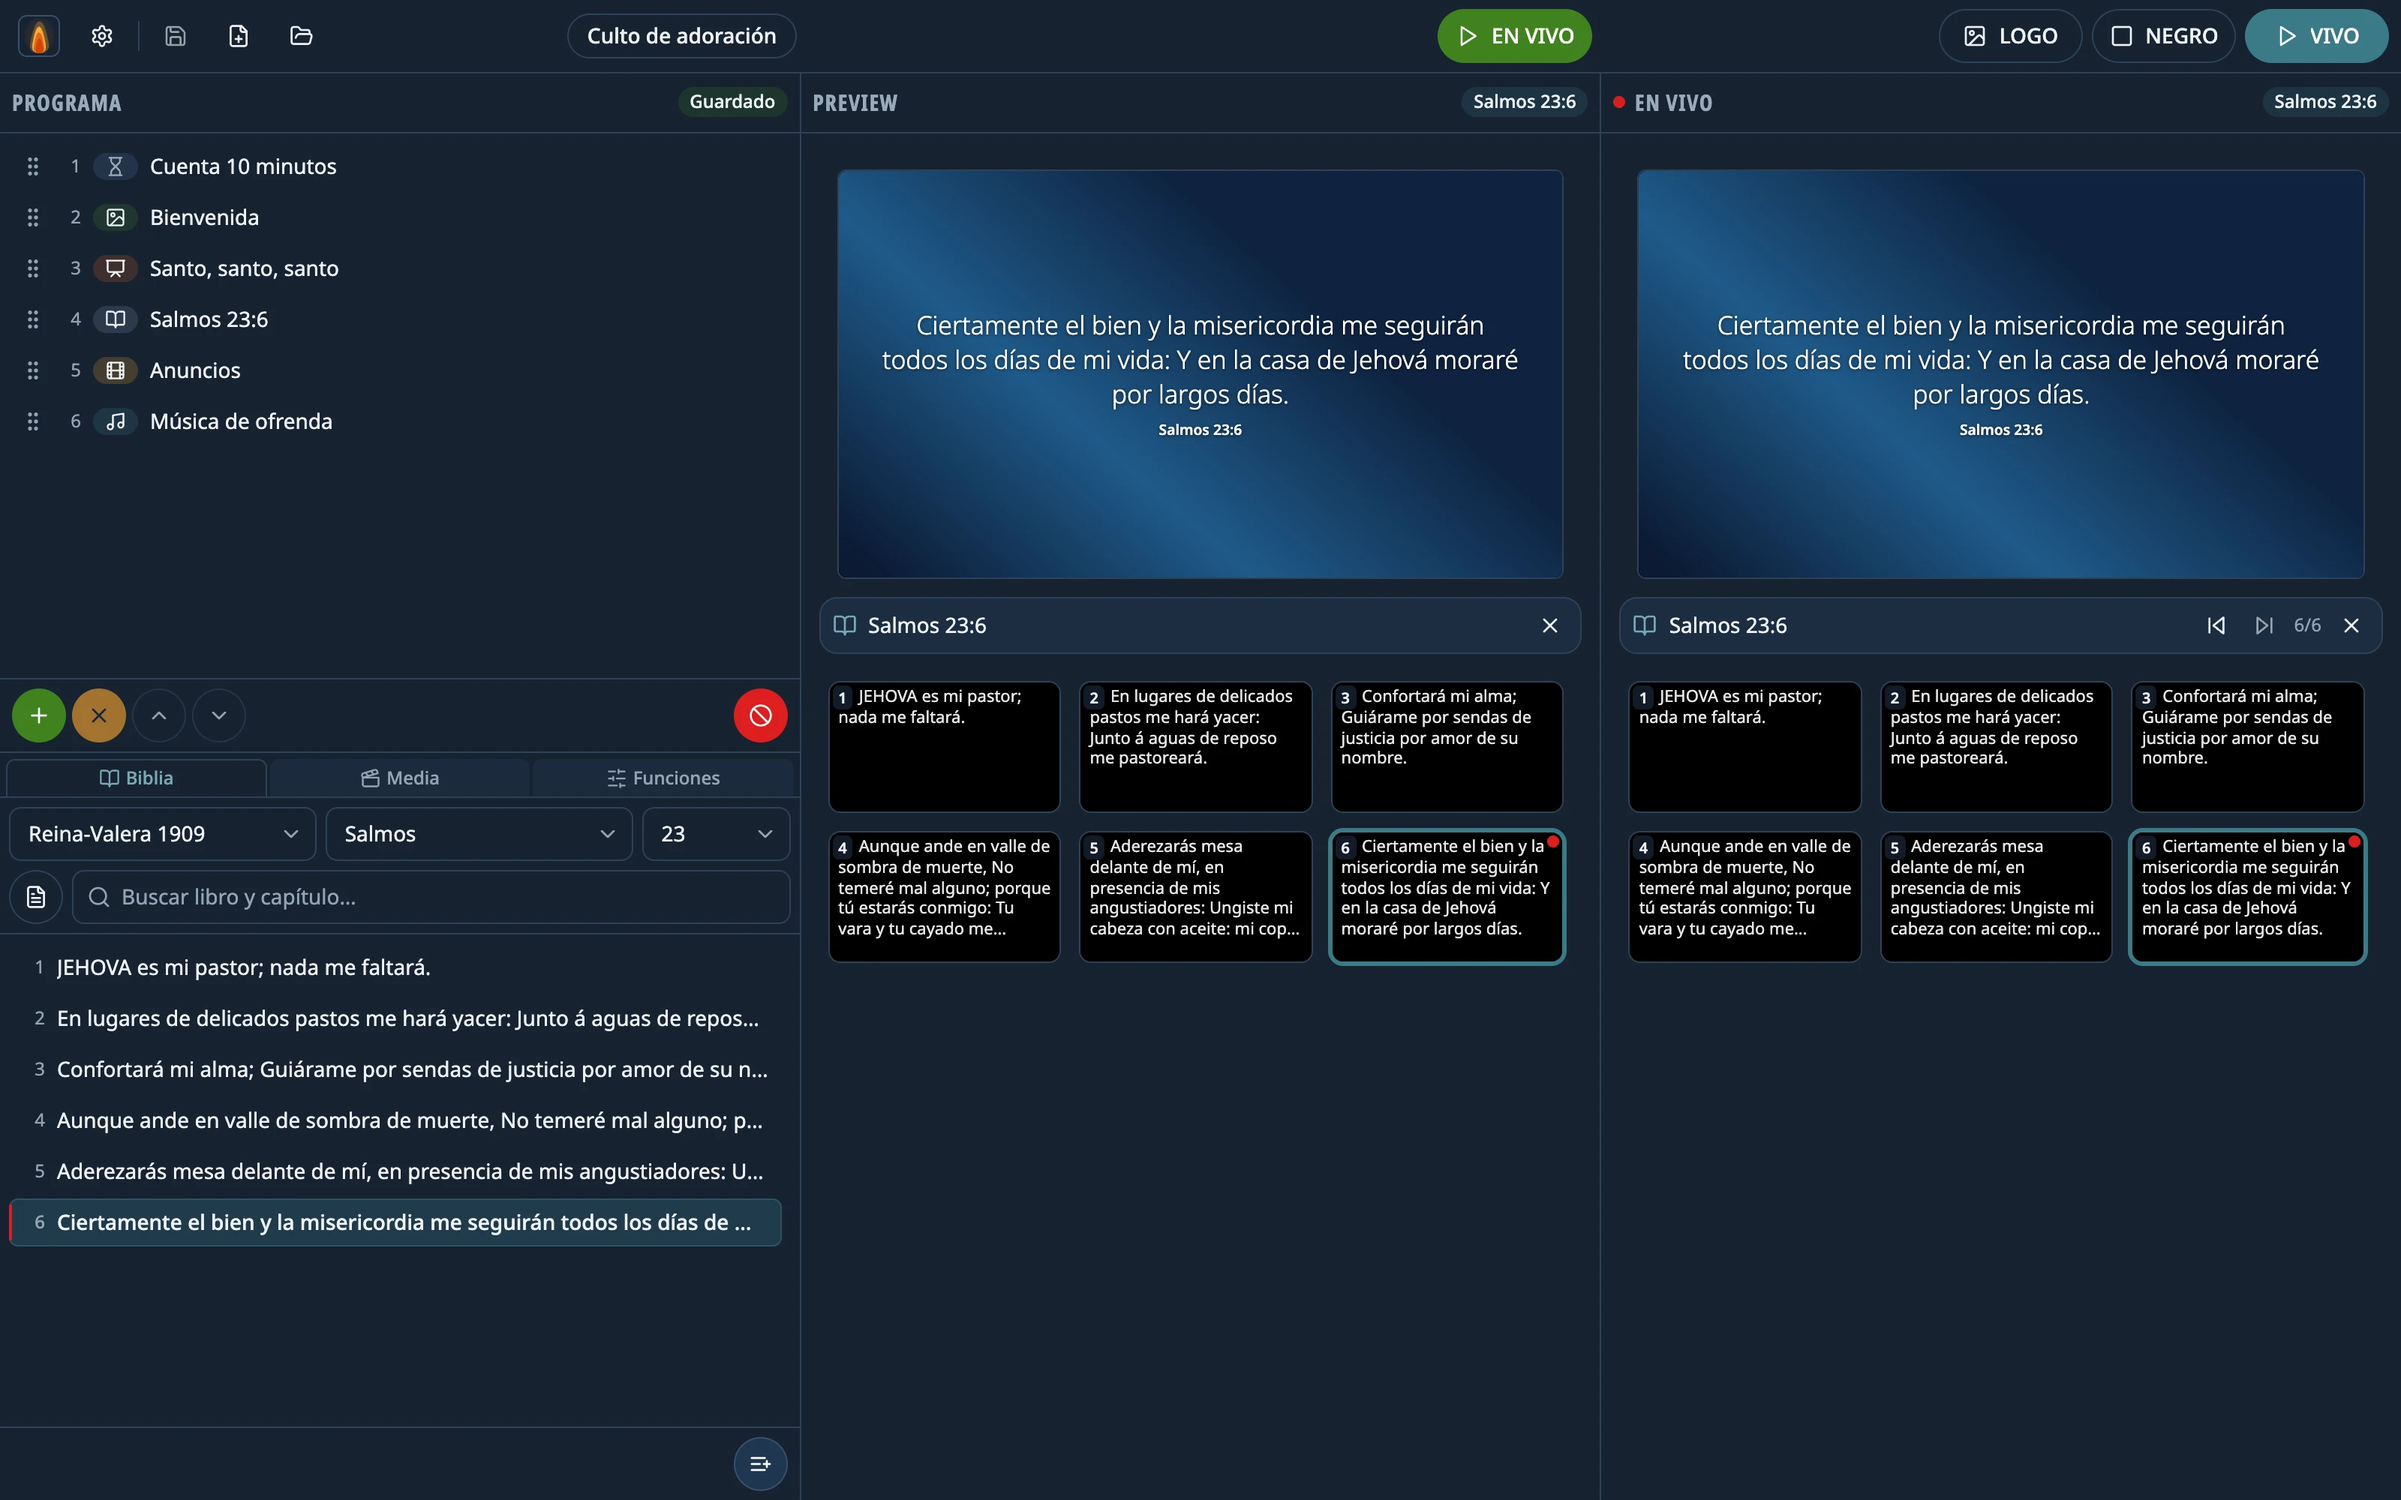
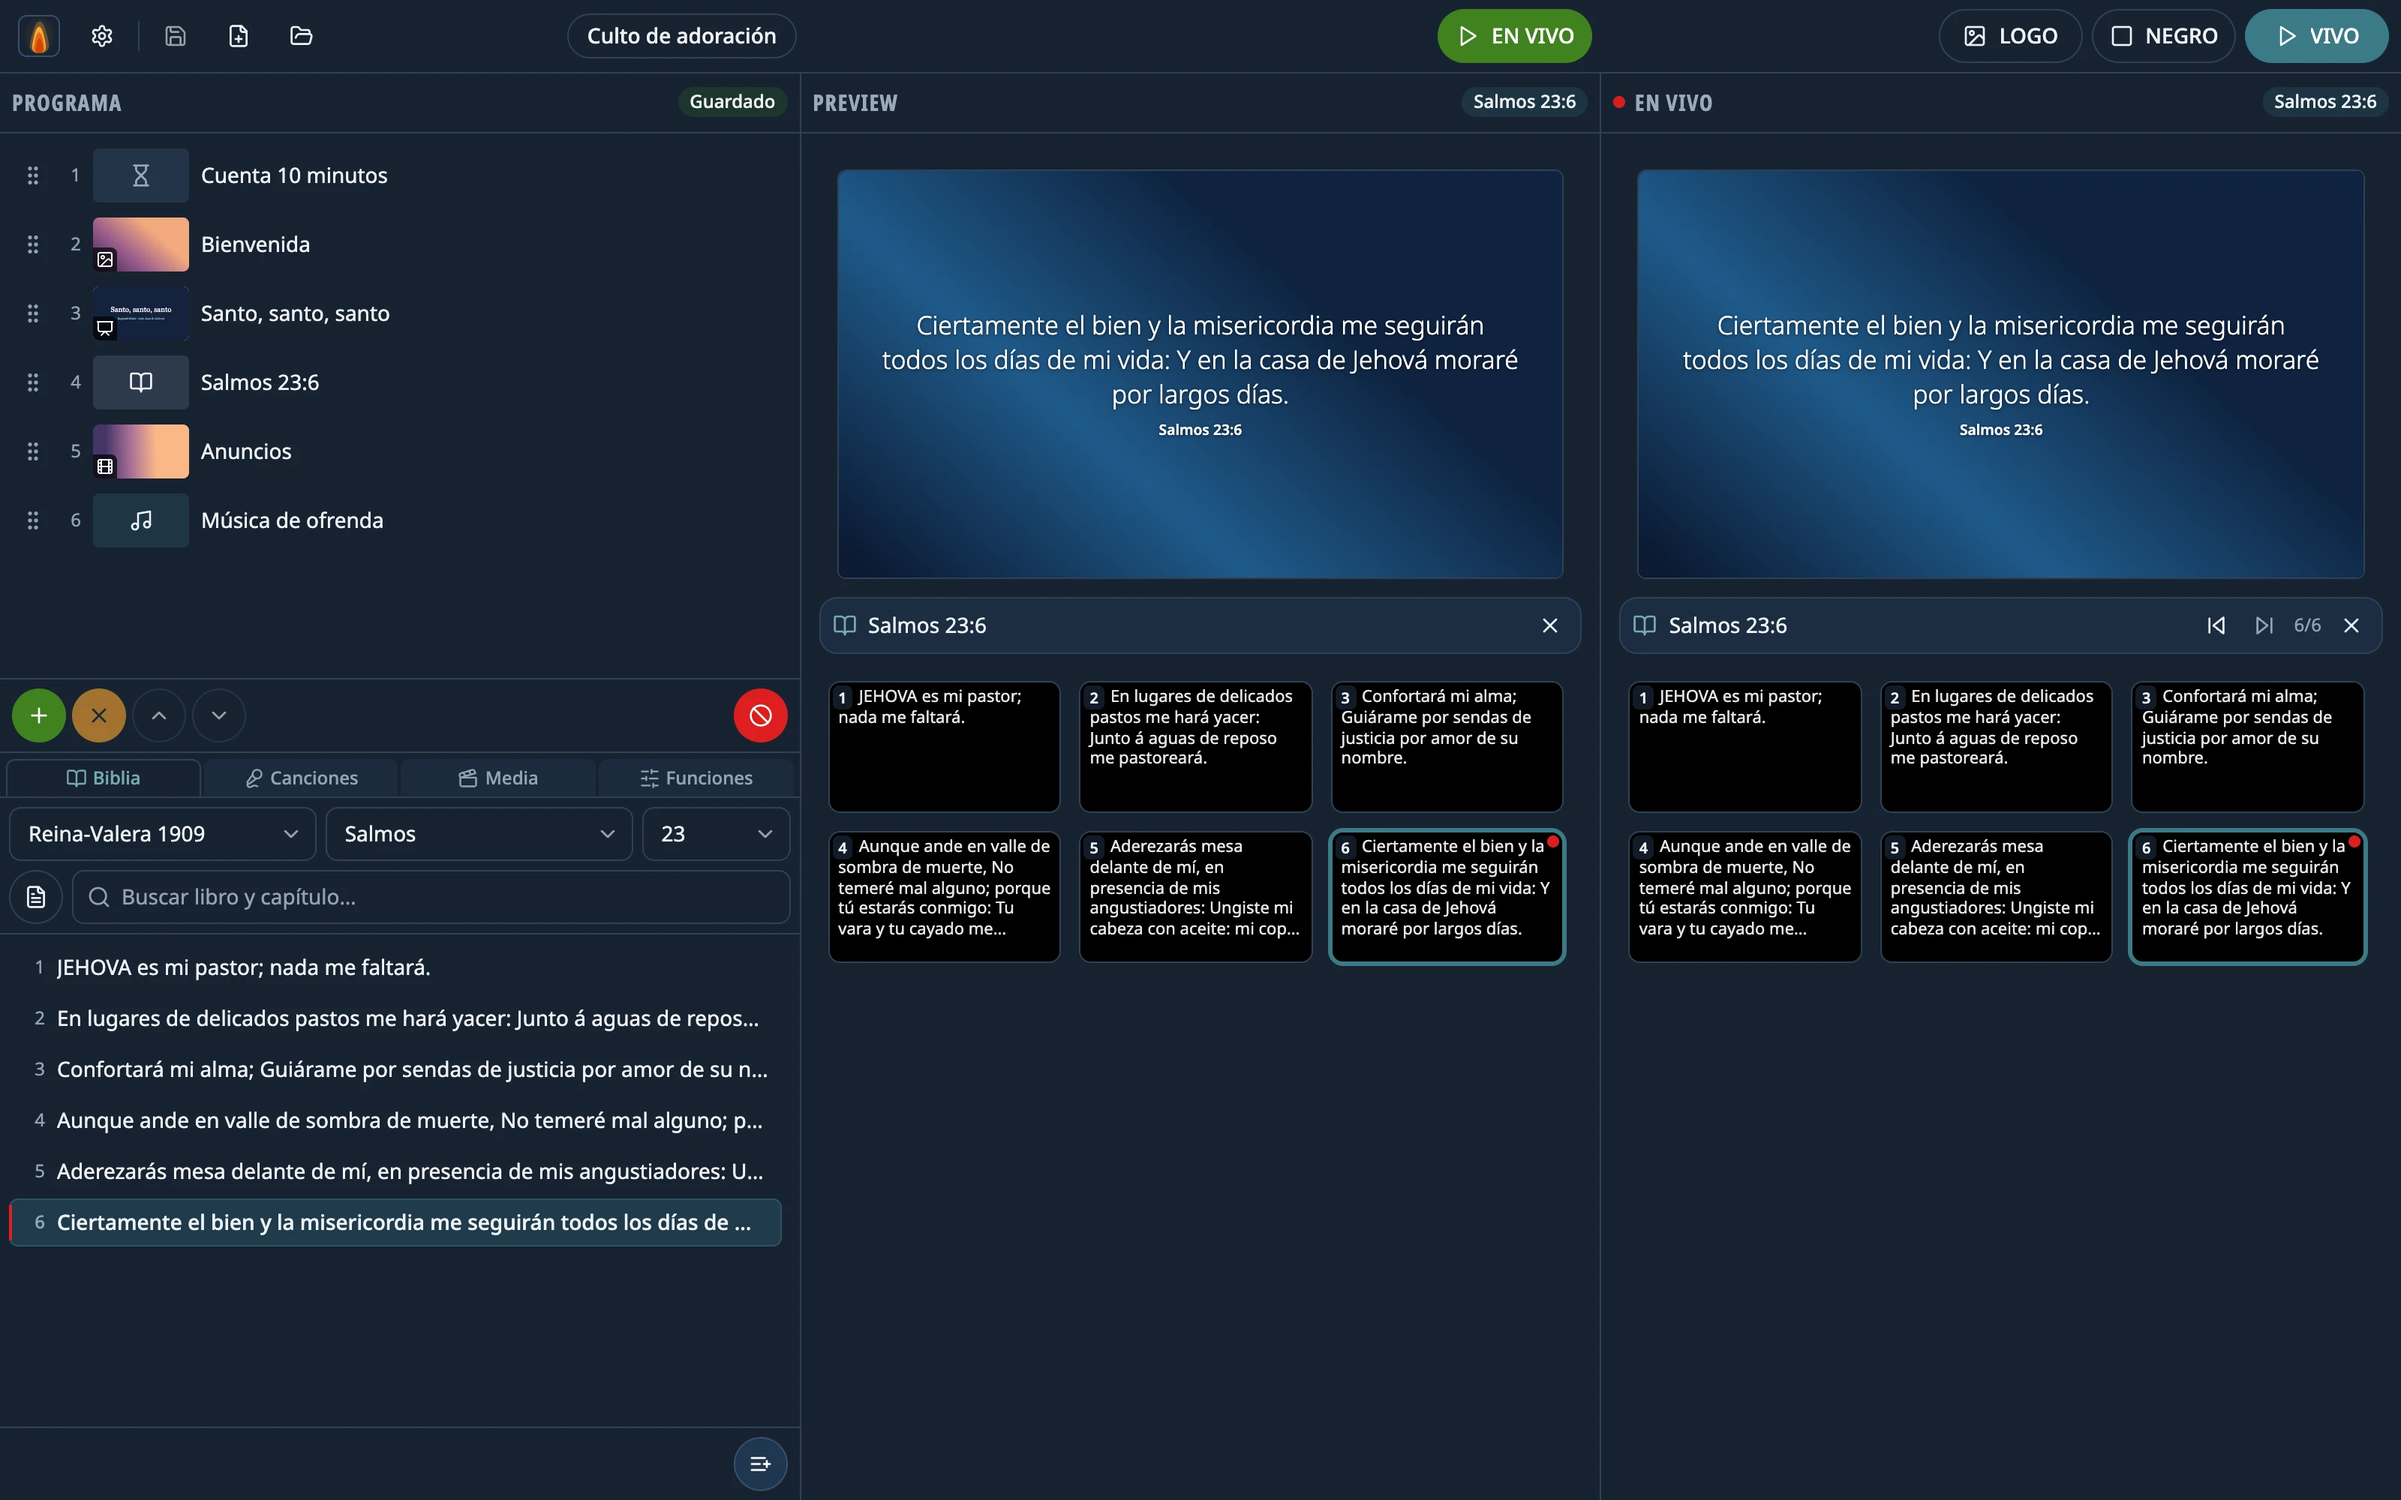
chore(screenshots): a songs scene, and the Songs tab in every frame
Luther's hymn (trans. Juan B. Cabrera, public domain) as a song in a theme
of its own over a generated background: its slides in PREVIEW with their
sections, the second one live with the section buttons. Every other frame is
retaken, since the resource tabs now include Songs.

diff --git a/tests/e2e/screenshots.capture.ts b/tests/e2e/screenshots.capture.ts
@@ -4,6 +4,8 @@ import os from "node:os";
 import path from "node:path";
 import type { CDPSession, Page } from "@playwright/test";
 import { DEFAULT_BIBLE_STYLE } from "../../src/shared/types/bible-style";
+import { DEFAULT_SONG_THEME } from "../../src/shared/types/song";
+import { parseLyrics } from "../../src/shared/song-text";
 import type { MediaAsset } from "../../src/shared/types/media";
 import { engineCanvas, expect, relaunch, test, type WorshipApp } from "./support/app";
 import { ROOT, ffmpegBinary } from "./support/paths";
@@ -24,6 +26,34 @@ const MEDIA = path.join(os.tmpdir(), "lumina-screenshots-media");
 const OUT = path.join(ROOT, "docs/screenshots");
 const THEMES = ["dark", "light"] as const;
 const VERSE = "Ciertamente el bien y la misericordia me seguirán";
+
+/** Luther's hymn as a song (trans. Juan B. Cabrera, public domain), its two
+ *  stanzas in two slides each. */
+const CASTILLO = [
+  "[Estrofa 1]",
+  "Castillo fuerte es nuestro Dios,",
+  "defensa y buen escudo.",
+  "Con su poder nos librará",
+  "en este trance agudo.",
+  "",
+  "Con furia y con afán",
+  "acósanos Satán:",
+  "por armas deja ver",
+  "astucia y gran poder;",
+  "cual él no hay en la tierra.",
+  "",
+  "[Estrofa 2]",
+  "Nuestro valor es nada aquí,",
+  "con él todo es perdido;",
+  "mas con nosotros luchará",
+  "de Dios el escogido.",
+  "",
+  "Es nuestro Rey Jesús,",
+  "el que venció en la cruz,",
+  "Señor y Salvador,",
+  "y siendo él solo Dios,",
+  "él triunfa en la batalla.",
+].join("\n");
 
 const media = (name: string) => path.join(MEDIA, name);
 
@@ -105,11 +135,36 @@ test("screenshots", async ({ app: first }) => {
     kind: "video",
     paths: ["Fondo adoración.mp4", "Amanecer.mp4", "Cielo.mp4"].map(media),
   });
-  const [background] = await first.invoke<MediaAsset[]>("library:add", {
+  const [background, warm] = await first.invoke<MediaAsset[]>("library:add", {
     kind: "image",
     paths: ["Fondo azul.png", "Fondo cálido.png"].map(media),
   });
-  if (!background) throw new Error("import failed");
+  if (!background || !warm) throw new Error("import failed");
+  // A song library: Luther's hymn in a theme of its own over the warm
+  // background, read at startup like the verse style.
+  const hymns = await first.invoke<{ id: number }>("songTheme:create", {
+    name: "Himnos",
+    style: { ...DEFAULT_SONG_THEME, background: { kind: "image", assetId: warm.id, fit: "cover" } },
+  });
+  const song = (title: string, authors: string, lyrics: string, themeId: number | null) =>
+    first.invoke("song:create", {
+      title,
+      number: null,
+      authors,
+      copyright: "Dominio público",
+      ccliNumber: null,
+      notes: null,
+      sections: parseLyrics(lyrics, "es").sections,
+      order: [],
+      themeId,
+    });
+  await song("Castillo fuerte", "Martín Lutero · trad. Juan B. Cabrera", CASTILLO, hymns.id);
+  await song(
+    "Santo, santo, santo",
+    "Reginald Heber · trad. Juan B. Cabrera",
+    "[Estrofa 1]\n¡Santo! ¡Santo! ¡Santo! Señor omnipotente,\nsiempre el labio mío loores te dará;",
+    null,
+  );
   await first.invoke("settings:set", {
     "bible.style": { ...DEFAULT_BIBLE_STYLE, background: { kind: "image", assetId: background.id, fit: "cover" } },
   });
@@ -180,6 +235,18 @@ test("screenshots", async ({ app: first }) => {
   const stage = await layOut(projector, 1920, 1080, 1);
   await settle(projector);
   await capture(stage, "projector");
+
+  // A song: its slides drawn in PREVIEW, each with its section's name and
+  // colour; the second on air, with a button per section under LIVE.
+  await app.openResources("Canciones");
+  await control.getByRole("tabpanel", { name: "Canciones" }).getByRole("listitem").filter({ hasText: "Castillo fuerte" }).click();
+  await app.goLive();
+  await expect(projector.getByText("Castillo fuerte es nuestro Dios,")).toBeVisible();
+  await control.keyboard.press("ArrowRight");
+  await expect(projector.getByText("Con furia y con afán")).toBeVisible();
+  const songSlides = app.previewColumn().getByRole("list", { name: "Diapositivas de «Castillo fuerte»" });
+  await songSlides.getByRole("listitem").nth(2).getByRole("button").click();
+  await shoot(app, screen, "songs", { x: 533, y: 0, width: 1067, height: 688 });
 
   // Before the service: the countdown on air, the clock next in PREVIEW.
   await app.openResources("Funciones", "Utilidades");
